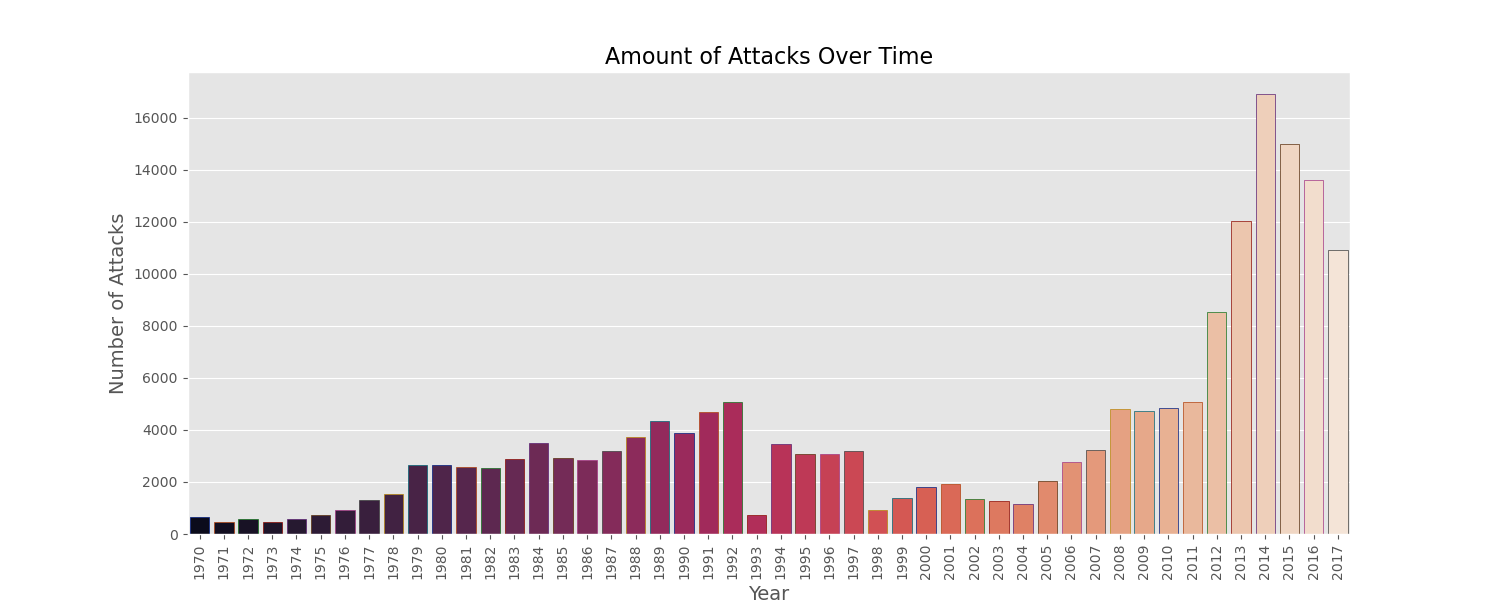
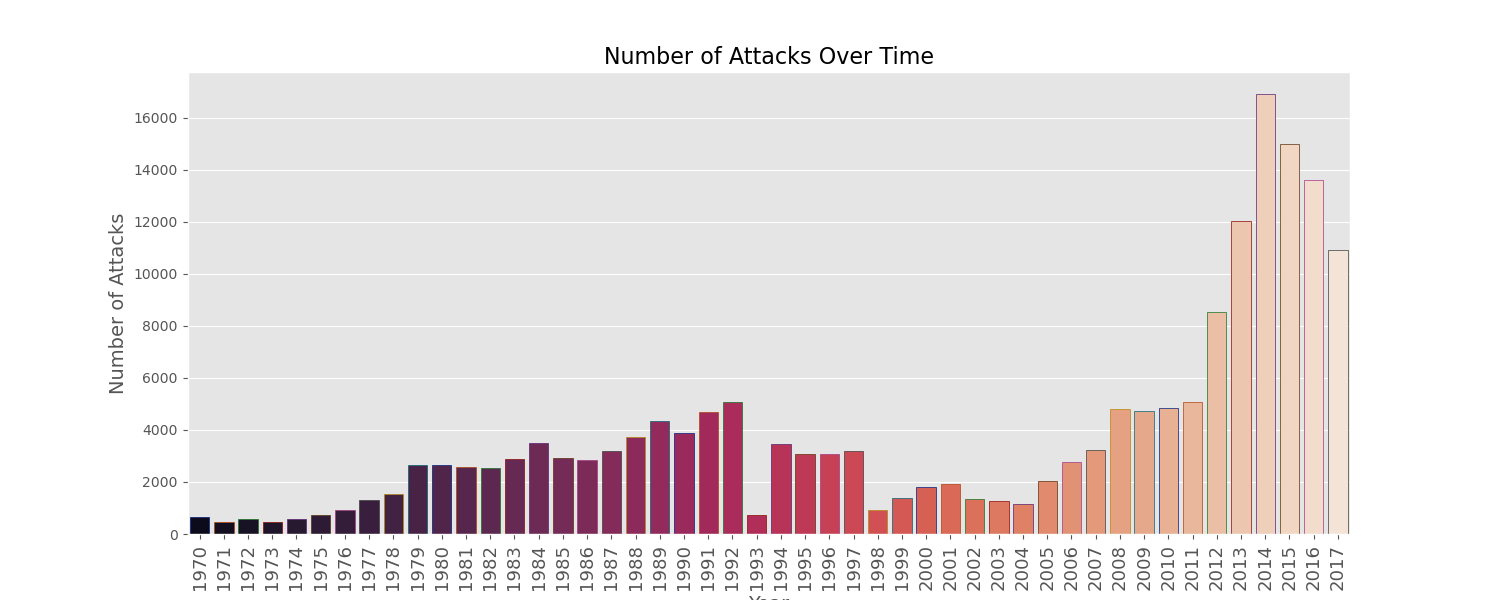
another one

Changed region(s): [[0.1227, 0.9, 0.92, 1.0], [0.3987, 0.06, 0.6133, 0.12]]

diff --git a/src/eda.py b/src/eda.py
@@ -30,7 +30,7 @@ def plots_over_time(df, column1, column2, xlab, ylab, title, save_loc):
     x = df.iloc[:, column1]
     y = df.iloc[:,column2]
     sns.barplot(x,y,palette='rocket',edgecolor=sns.color_palette('dark',10))
-    plt.xticks(rotation=90)
+    plt.xticks(rotation=90, fontsize=13)
     ax.set_xlabel(xlab, fontsize=14)
     ax.set_ylabel(ylab, fontsize=14)
     ax.set_title(title, fontsize=16)
@@ -65,7 +65,7 @@ if __name__ == '__main__':
     ''' Plot 1: Amount of Terrorist Attacks Over Time'''
     attack_time = groupby_func(terror, 'Year', 'Event_ID', 'count')
     #  Creates dataframe that shows the count of attacks for each year
-    plots_over_time(attack_time, 0,1, "Year", "Number of Attacks", "Amount of Attacks Over Time", '../images/Attacks_Over_Time.png' )
+    plots_over_time(attack_time, 0,1, "Year", "Number of Attacks", "Number of Attacks Over Time", '../images/Attacks_Over_Time.png' )
     
     ''' Plot 2: Amount of Fatalities Over Time'''
     # death_time = groupby_func(terror, 'Year', 'Fatalities', 'sum')
@@ -75,9 +75,6 @@ if __name__ == '__main__':
     ''' Plot 3: Amount of Fatalities Over Time'''
 
     plt.show()
-
-
-    '
     
 
 
